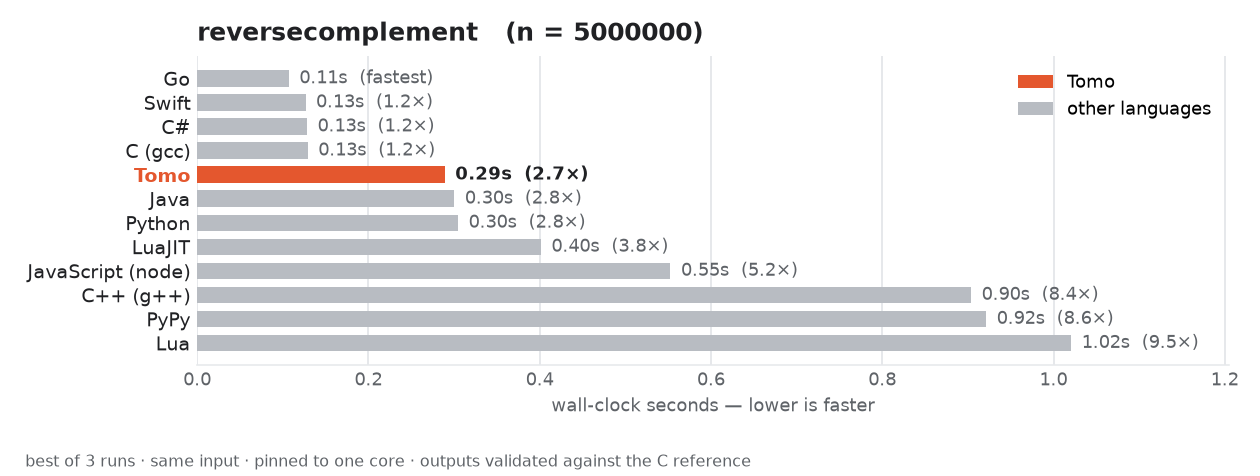
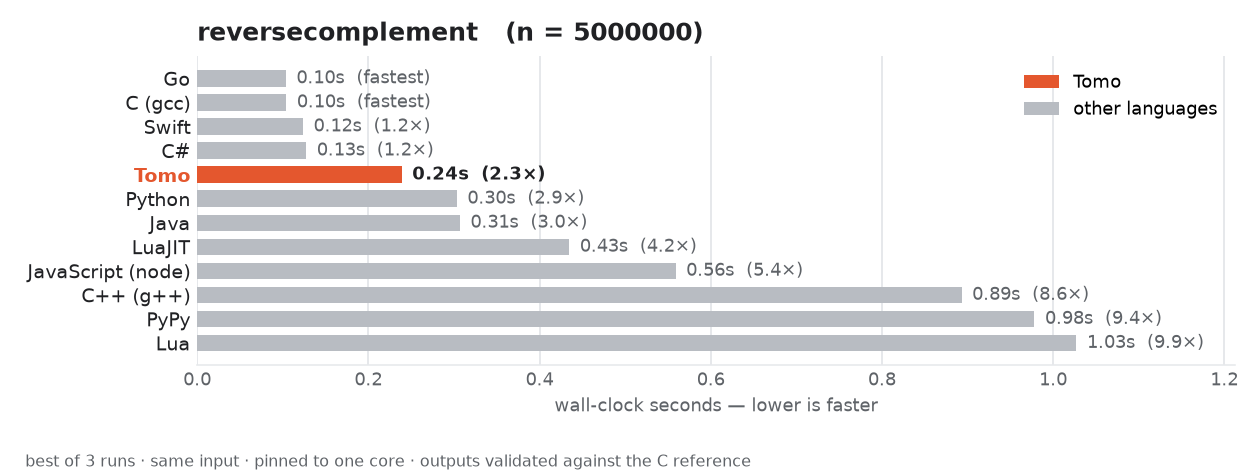
Keep the faster hand-tuned reverse-complement; reframe the comprehension note
Revert the benchmark port to the single-pass index-loop version (0.24s,
2.3x C) rather than the idiomatic comprehension (0.29s) — a comprehension
is at most 1:1 so it can't insert the 60-column wrap newlines in the same
pass, forcing a second rewrap pass. The comprehension codegen improvements
(pre-sized buffers, inlined appends in List.insert, GC-atomic byte lists)
remain as general wins; the README now frames them that way rather than as
the revcomp port's basis. Regenerated the affected graphs.

diff --git a/benchmarks/README.md b/benchmarks/README.md
@@ -34,14 +34,12 @@ language.
 
 Of the four newer benchmarks, **mandelbrot** is a standout: at 0.70s Tomo
 *beats* the (multithreaded, core-pinned) C and Go entries outright, trailing
-only Rust, C++, and Java. **reverse-complement** at 0.29s is ahead of Python,
-Java, LuaJIT, JavaScript, C++, PyPy, and Lua — and it's written as ordinary
-idiomatic Tomo (a list comprehension), not a hand-tuned index loop, thanks to
-compiler work on comprehensions described below. **spectral-norm** at 1.16s is
-~1.9× C, ahead of Go, C#, Java, and every scripting language. **pidigits** — a
-pure GMP bignum stress test — is Tomo's weakest relative showing at ~4.8× C,
-but still 4th of 9, comfortably ahead of Python, PyPy, Java, C#, and
-JavaScript. Several runtime
+only Rust, C++, and Java. **reverse-complement** at 0.24s (2.3× C) is ahead of
+Python, Java, LuaJIT, JavaScript, C++, PyPy, and Lua, and closing in on
+C#/Swift (0.13s). **spectral-norm** at 1.16s is ~1.9× C, ahead of Go, C#,
+Java, and every scripting language. **pidigits** — a pure GMP bignum stress
+test — is Tomo's weakest relative showing at ~4.8× C, but still 4th of 9,
+comfortably ahead of Python, PyPy, Java, C#, and JavaScript. Several runtime
 improvements came out of chasing these numbers down — see below.
 
 The top of each compute chart is crowded with fast natives — Zig, Nim,
@@ -115,24 +113,25 @@ multiplies that cost more than the branch it removed. Good algorithmic
 intuition doesn't always survive contact with the compiler's actual codegen;
 measuring beats predicting.
 
-Finally, the port was rewritten to express the transform the *idiomatic* way —
-a list comprehension, `[comp[d] for d in region.reversed() if d != newline]` —
-rather than a hand-tuned index loop. That motivated three more general
-compiler/runtime improvements so the idiomatic form wouldn't pay a tax: (1)
-**list comprehensions now compile to a pre-sized buffer filled with inlined
-appends** instead of `insert`-into-an-empty-list — for `[expr for x in SOURCE
-(if cond)]` over a list, the result can't exceed `SOURCE.length`, so the
-buffer is allocated once and every append is a bounds-free store (no growth
-realloc, no per-element function call). This ~3×'d a comprehension
-microbenchmark (0.39s → 0.13s). (2) The inlined-append fast path lives in
-`List.insert` itself (keyed on appending at the end), so *all* append-in-a-loop
-code benefits, not just comprehensions. (3) **Unsigned-int lists (including
-`[Byte]`) are now GC-atomic**, so the collector no longer scans their payload
-for pointers. The comprehension port lands at 0.29s — about 15% slower than the
-hand-tuned 0.25s index loop (a comprehension is at most 1:1, so it can't insert
-the wrap newlines in the same pass, and the materialized intermediate list plus
-the separate rewrap cost the difference) — but it's ordinary readable Tomo, and
-still comfortably ahead of every scripting language and both JVM/CLR entries.
+Separately, exploring whether the transform could be expressed the *idiomatic*
+way — a list comprehension, `[comp[d] for d in region.reversed() if d !=
+newline]` — motivated three general compiler/runtime improvements so that
+idiomatic form wouldn't pay a heavy tax: (1) **list comprehensions now compile
+to a pre-sized buffer filled with inlined appends** instead of
+`insert`-into-an-empty-list — for `[expr for x in SOURCE (if cond)]` over a
+list, the result can't exceed `SOURCE.length`, so the buffer is allocated once
+and every append is a bounds-free store (no growth realloc, no per-element
+function call). This ~3×'d a comprehension microbenchmark (0.39s → 0.13s). (2)
+The inlined-append fast path lives in `List.insert` itself (keyed on appending
+at the end), so *all* append-in-a-loop code benefits, not just comprehensions.
+(3) **Unsigned-int lists (including `[Byte]`) are now GC-atomic**, so the
+collector no longer scans their payload for pointers. With all three, a
+comprehension port of reverse-complement runs at ~0.29s — impressively close
+for fully idiomatic code, but still ~15% behind the hand-tuned index loop,
+because a comprehension is at most 1:1 and so can't also insert the wrap
+newlines in the same pass (it must materialize the sequence and re-wrap it
+separately). The benchmark keeps the faster single-pass version; the compiler
+improvements stand on their own for everyday code.
 
 Per-benchmark graphs: [n-body](results-nbody.png) ·
 [fannkuch-redux](results-fannkuchredux.png) · [fasta](results-fasta.png) ·
